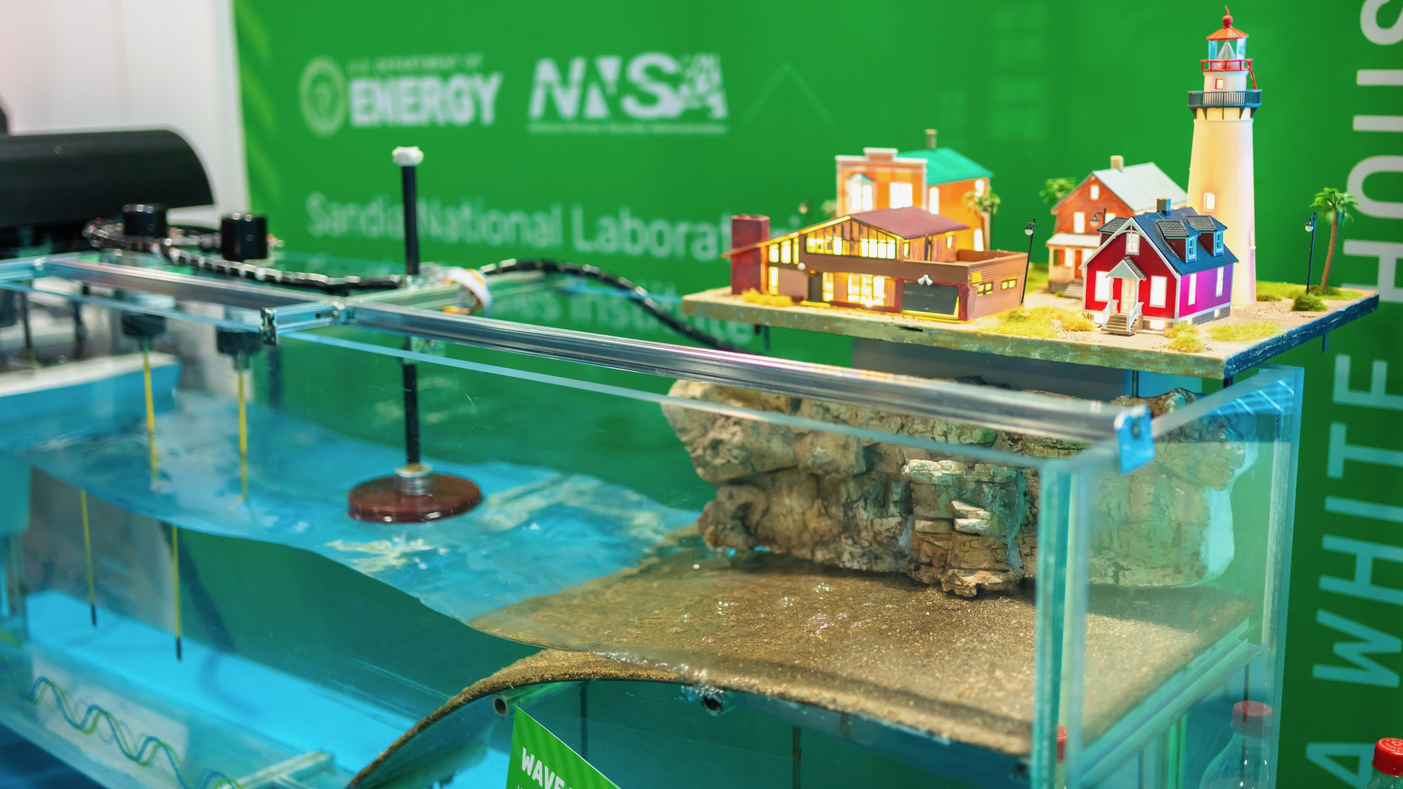
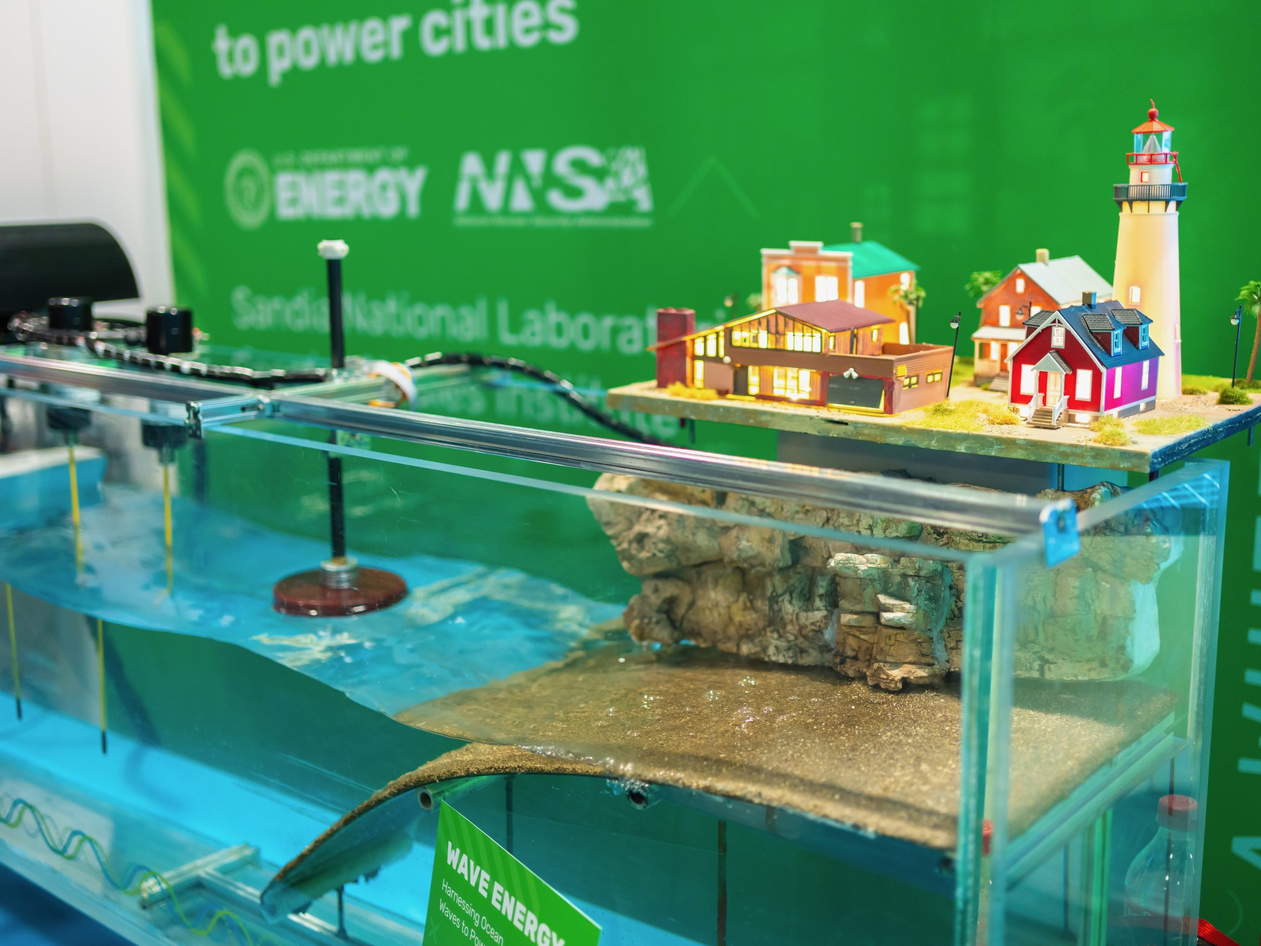
consistent aspect ratios; capitalize "President"

diff --git a/_projects/5_project.md b/_projects/5_project.md
@@ -13,13 +13,13 @@ images:
 The Sandia Integrated Wave Energy Educational Display (SIWEED) is a fish tank sized wave tank and wave energy converter (WEC) designed to support outreach and education.
 The WEC itself is based loosely on the [WaveBot](/projects/8_project).
 An interactive touch screen graphic user interface allows the user to control the waves and the WEC's feedback controller and experiment with some of the basic concepts developed by our team's research {% cite Coe:2021ab %}.
-This intern-led project was presented at at White House event titled "American Possibilities" in November, 2023 and was reviewed by president Joe Biden.
+This intern-led project was presented at at White House event titled "American Possibilities" in November, 2023 and was reviewed by President Joe Biden.
 The project is available for replication based on a [GitHub repository](https://github.com/SNL-WaterPower/siweed) and a journal paper: {% cite Ross:2025aa %}.
 The SIWEED now resides at the [Coastal Studies Institute](https://www.coastalstudiesinstitute.org) in Wanchese, NC, where it is enjoyed by hundreds of summer campers each year.
 
 <swiper-container keyboard="true" navigation="true" pagination="true" pagination-clickable="true" pagination-dynamic-bullets="true" rewind="true">
   <swiper-slide>{% include figure.liquid loading="eager" path="assets/img/SIWEED_demo_day_team.jpg" class="img-fluid rounded z-depth-1" %}</swiper-slide>
-  <swiper-slide>{% include figure.liquid loading="eager" path="assets/img/SIWEED_demo_day.jpg" class="img-fluid rounded z-depth-1" %}</swiper-slide>
+  <swiper-slide>{% include figure.liquid loading="eager" path="assets/img/SIWEED_demo_day_cropped.jpg" class="img-fluid rounded z-depth-1" %}</swiper-slide>
   <swiper-slide>{% include figure.liquid loading="eager" path="assets/img/SIWEED_Nick_demo_days.jpg" class="img-fluid rounded z-depth-1" %}</swiper-slide>
   <swiper-slide>{% include figure.liquid loading="eager" path="assets/img/SWIEED_original_interns.jpg" class="img-fluid rounded z-depth-1" %}</swiper-slide>
 </swiper-container>
